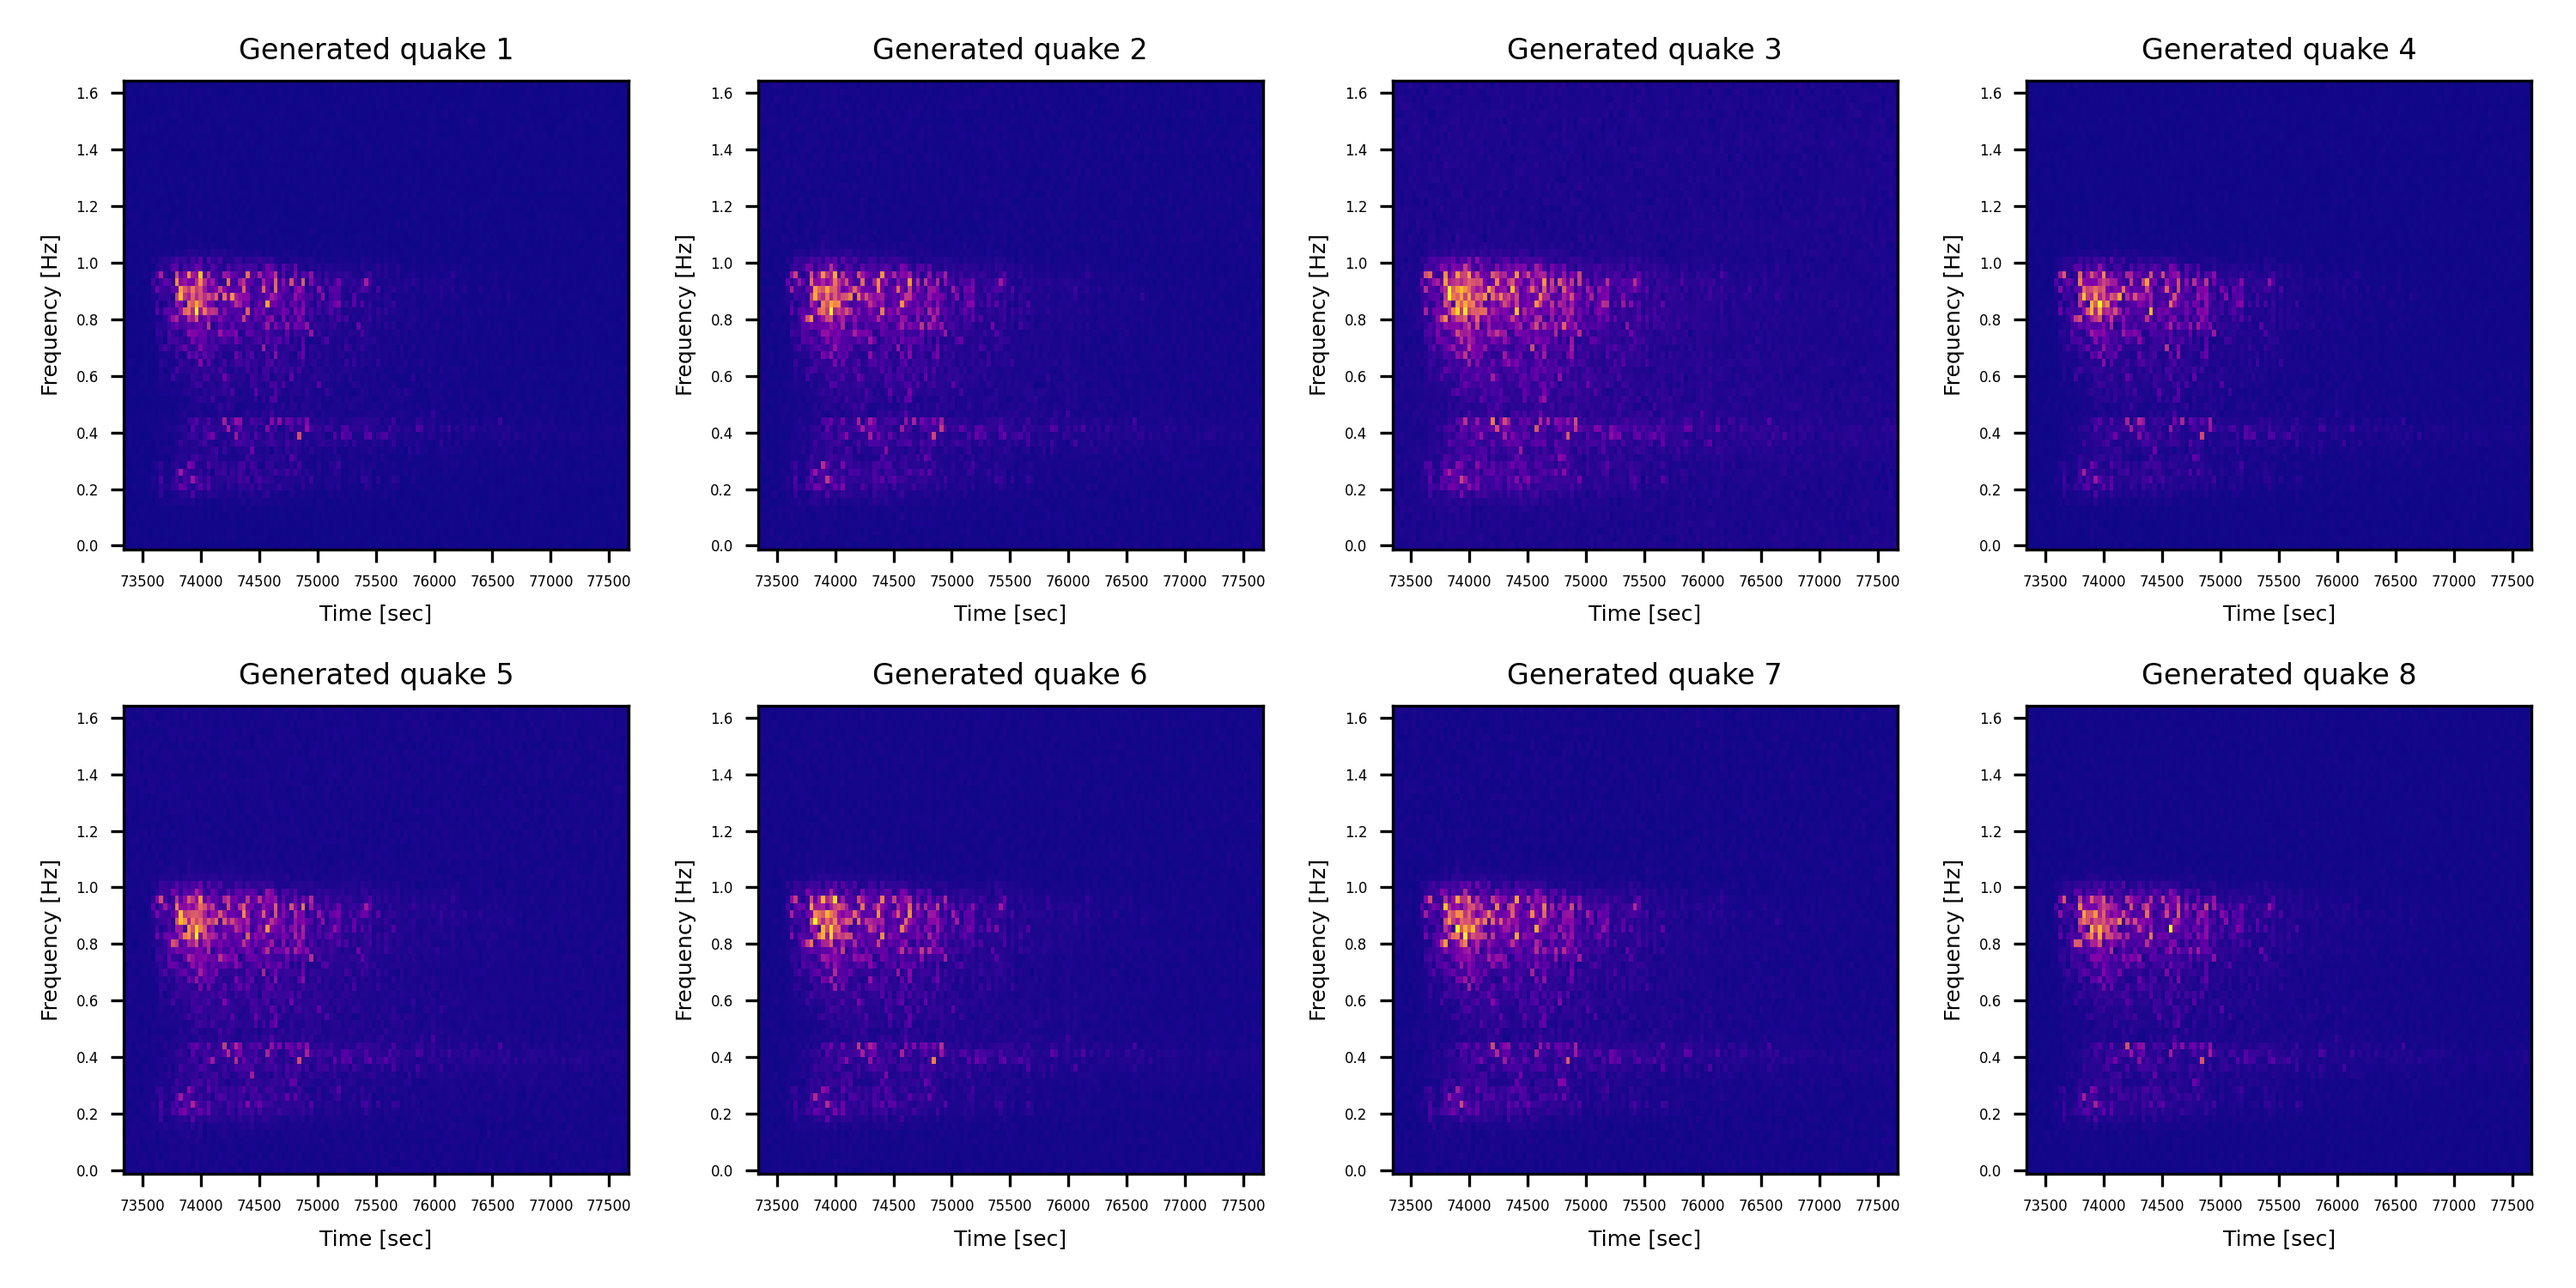
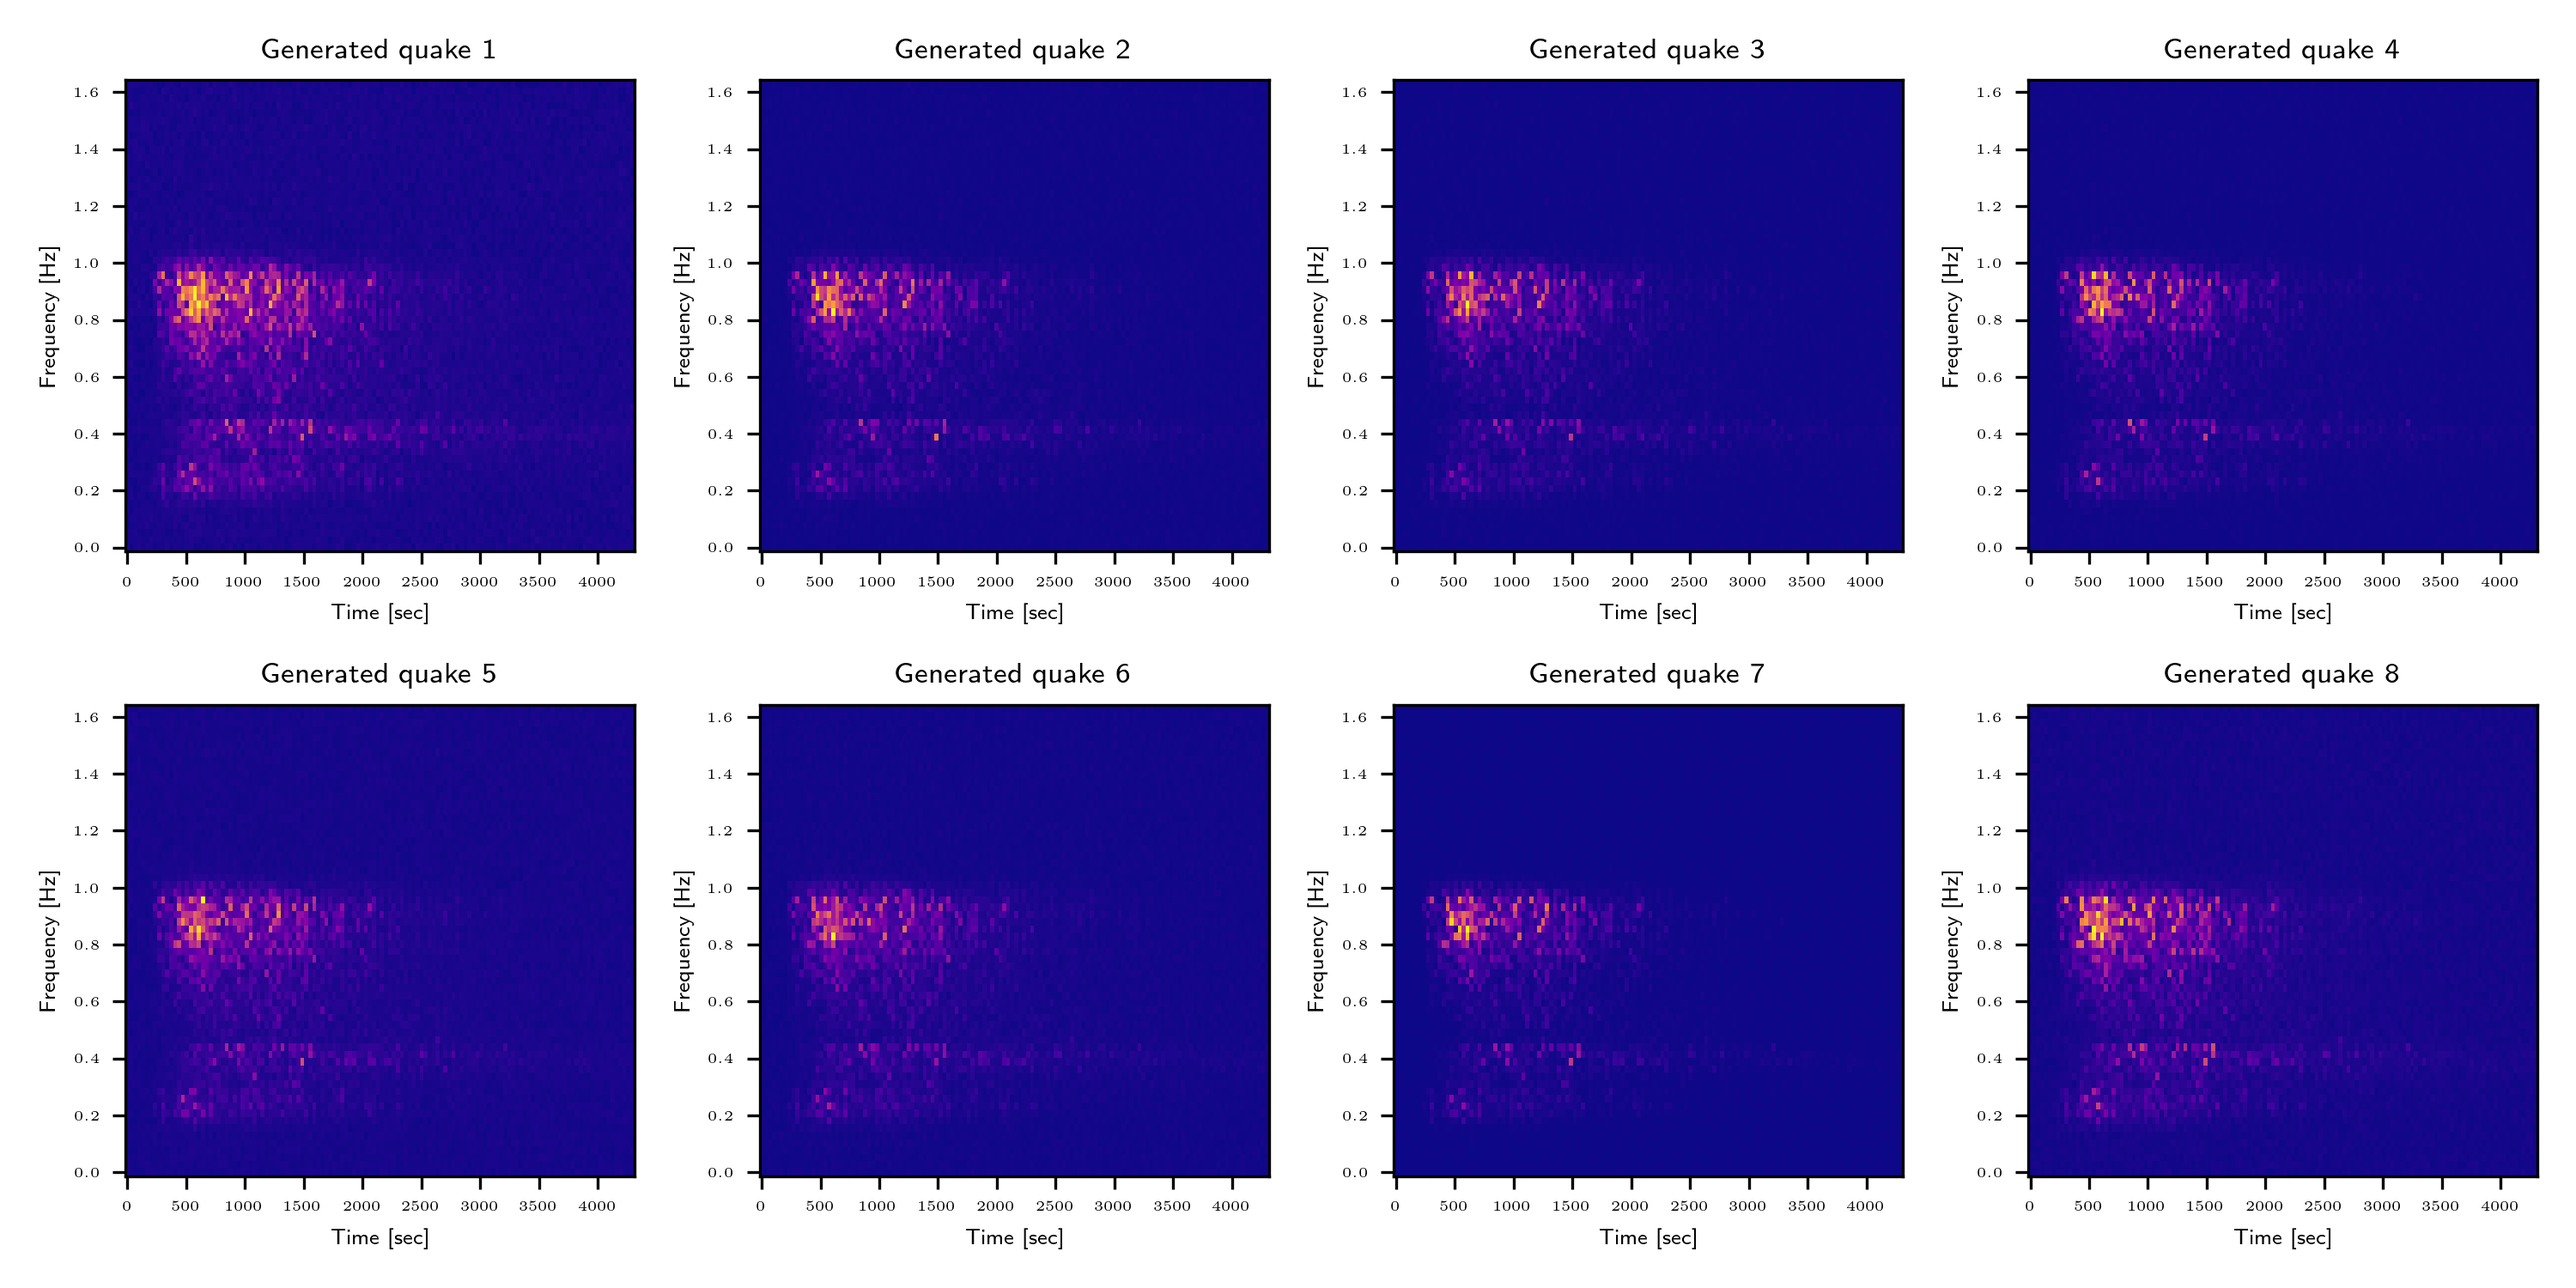
latex

diff --git a/model/e_vae_infer.py b/model/e_vae_infer.py
@@ -47,6 +47,7 @@ def main():
         sxx = sxx.reshape((N_GEN, *d.WINDOW_SIZE)).cpu()
 
         t, f = dataset.get_t(0).cpu(), dataset.get_f(0).cpu()
+        t -= t.min()
 
     plt.figure(figsize=(10, 5))
     for i in range(8):
@@ -67,5 +68,7 @@ def main():
 if __name__ == "__main__":
     if torch.cuda.is_available():
         torch.set_default_device("cuda:0")
+
+    plt.rcParams["text.usetex"] = True
 
     main()
